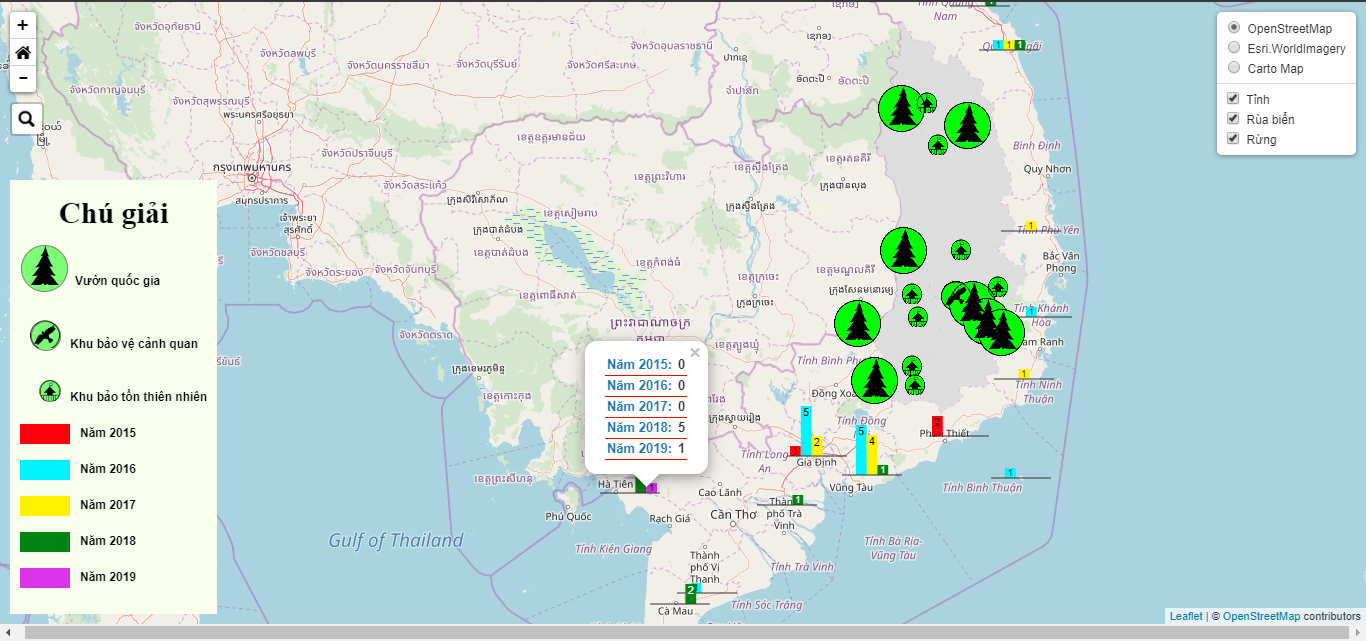
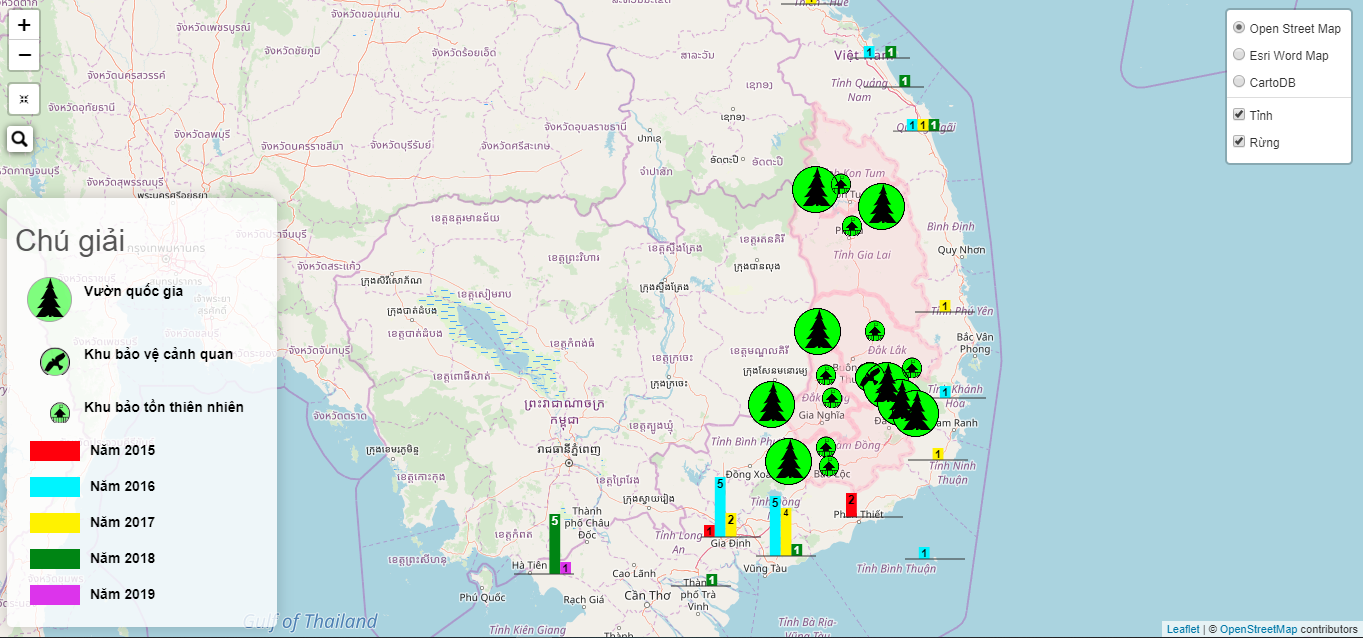
WebGIS_Forest_TN

diff --git a/README.md b/README.md
@@ -13,12 +13,26 @@
 + Chưa bật tắt được các lớp $.getJSON
 <img src="img/Note_img/Note_1_1.png" width="50%">
 
-### Note 1.1: Thêm Bar Chart và bật tắt các lớp
+### Note 1.2: Thêm Bar Chart và bật tắt các lớp
 + Đã bật tắt được các lớp $.getJSON
 + Thay đổi thư viện L.Control.ZoomMin thành leaflet.zoomhome
 + Không sử dụng dữ liệu js, chỉ còn sử dụng json hoặc geoJSON
 + Thêm Bar Chart bằng thư viện leaflet.mincharts (có hỗ trợ cả bên R)
 <img src="img/Note_img/Note_1_2.png" width="50%">
+
+### Note 1.2: Thêm Popup cho Chart
++ Thêm và style lại Popup - dựa theo mẫu của R
+<img src="img/Note_img/Note_1_3.png" width="50%">
+<h3>Vấn đề mới</h3>
+<h4>Cách 1</h4>
++ Nên dynamic legend: bật lớp nào thì chỉ cần hiện legend lớp đó
++ Nếu bật lớp khác thì tự động tắt lớp vừa bật
+<h4>Cách 2</h4>
++ Cho kéo thả legend
++ Hoặc tự động fix legend nhỏ lại
+<h4>Cách 3</h4>
+Gộp cả 2 cách trên: vừa cho phép dynamic, vừa cho phép kéo thả
+<img src="img/Note_img/Note_1_3.png" width="50%">
 
 ## Note 2
 + Note 2: Geoserver không hỗ trợ xuất điểm có thứ tự
